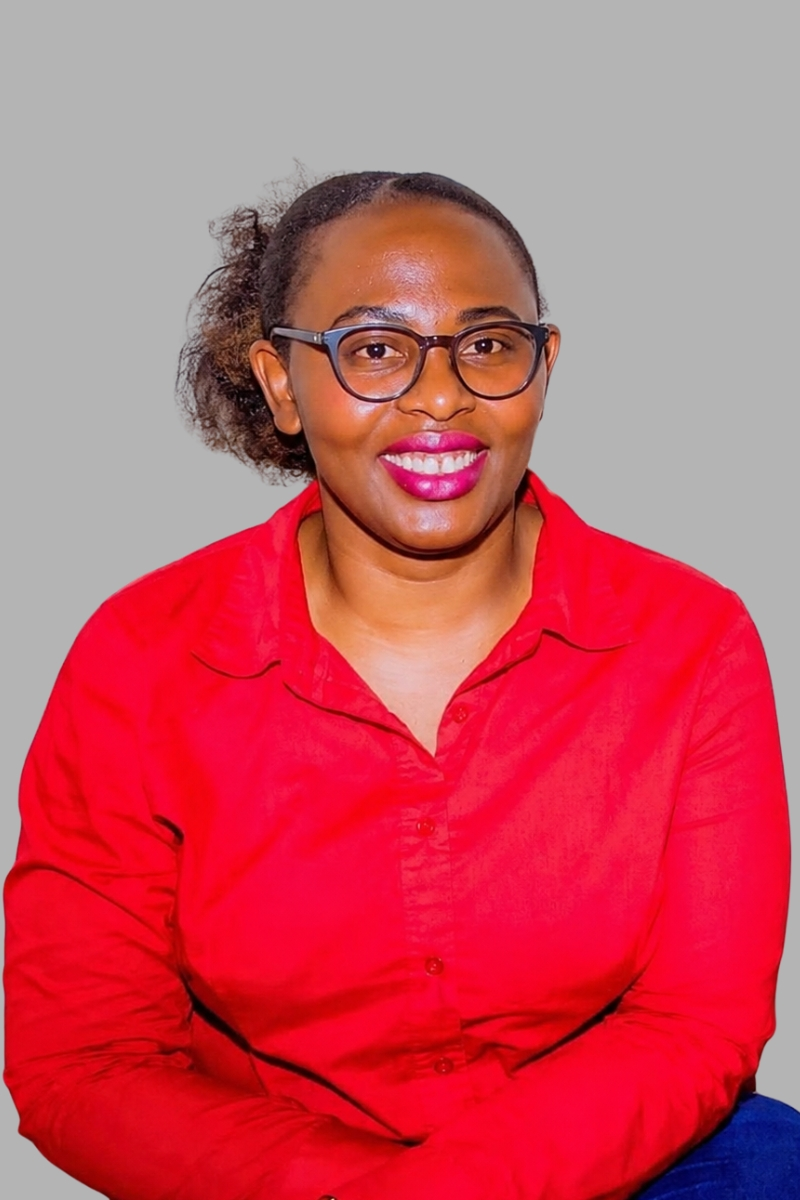
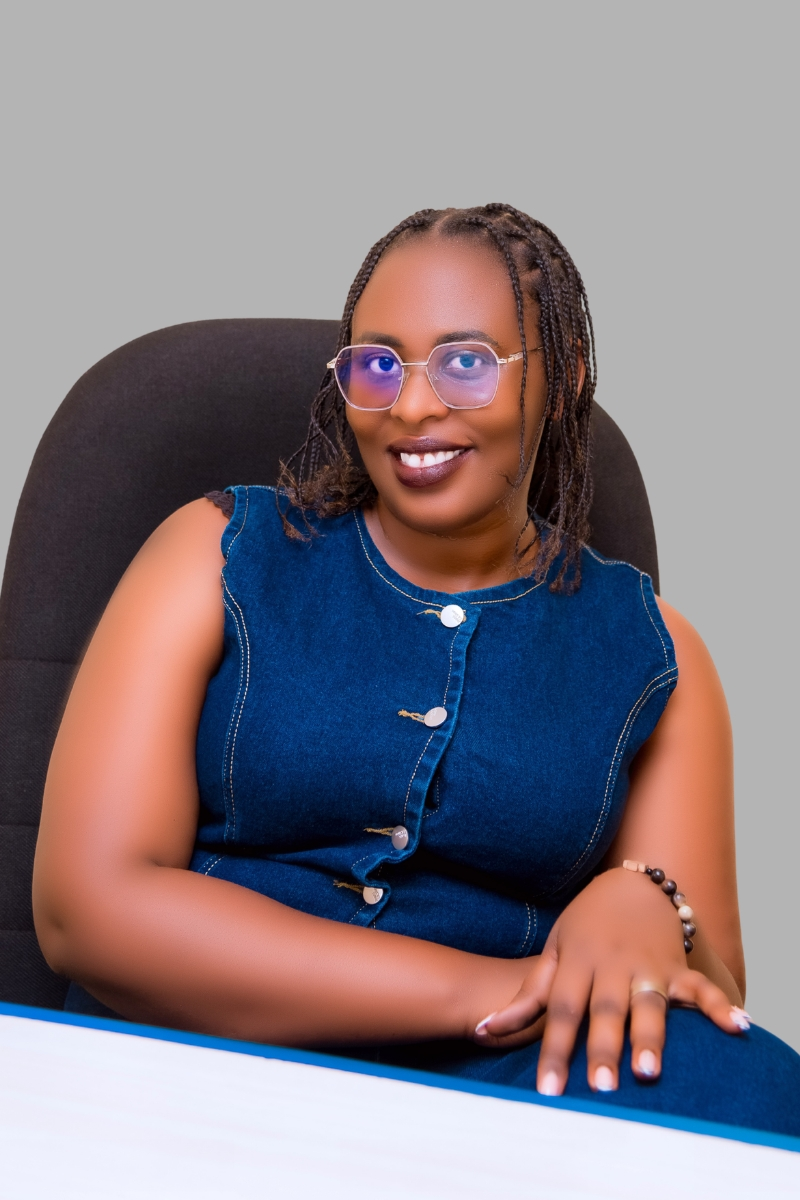
Serve Claudine’s updated portrait from a new Blob URL.
The previous CDN address stays cached for a month, so the site now requests a fresh one.

diff --git a/src/data/blobAssets.ts b/src/data/blobAssets.ts
@@ -6,7 +6,7 @@ export const blobAssets = {
   "/about01.jpg": "https://ko9lopuqp1q6fex2.public.blob.vercel-storage.com/media/about01.jpg",
   "/Bosco.png": "https://ko9lopuqp1q6fex2.public.blob.vercel-storage.com/media/Bosco.png",
   "/Career development.jpg": "https://ko9lopuqp1q6fex2.public.blob.vercel-storage.com/media/Career%20development.jpg",
-  "/Claudine.jpg": "https://ko9lopuqp1q6fex2.public.blob.vercel-storage.com/media/Claudine.jpg",
+  "/Claudine.jpg": "https://ko9lopuqp1q6fex2.public.blob.vercel-storage.com/media/Claudine-2.jpg",
   "/Community Outreach.jpg": "https://ko9lopuqp1q6fex2.public.blob.vercel-storage.com/media/Community%20Outreach.jpg",
   "/Digital literacy.jpg": "https://ko9lopuqp1q6fex2.public.blob.vercel-storage.com/media/Digital%20literacy.jpg",
   "/EdSupport.jpg": "https://ko9lopuqp1q6fex2.public.blob.vercel-storage.com/media/EdSupport.jpg",
